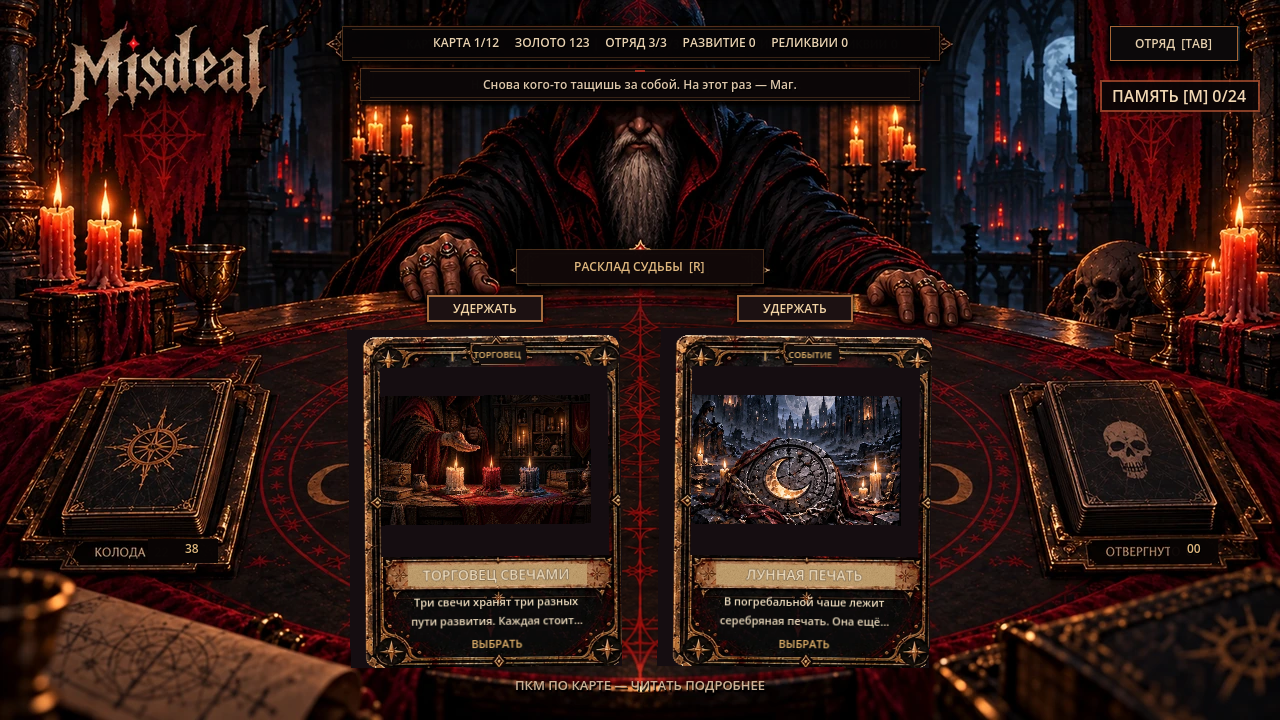
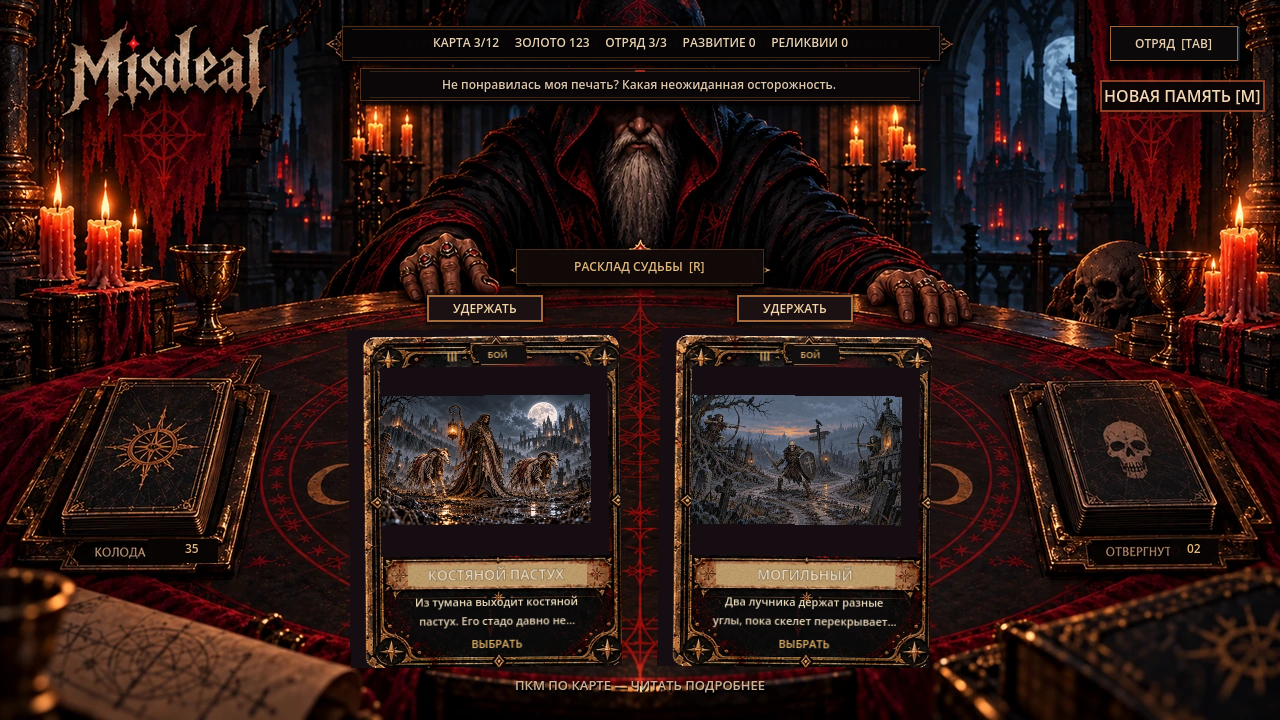
Verify persisted event history through real Save and Exit and fresh-process Continue

diff --git a/docs/RUN_SAVE_SYSTEM.md b/docs/RUN_SAVE_SYSTEM.md
@@ -91,6 +91,8 @@ Separate persistent memory profile now retains a random run token and monotonic 
 
 ## QA and local check
 
-Local Godot4.7.2 full238-test suite passed before final additional regression cases; focused tests cover all fields, three heroes, trio/relics/upgrades/hold/wizard debt and facts, damaged files/backups/terminal status, rewind protection, stable reward phase, cancellation. Final CI counts are in the PR checks. Native `scripts/dev/run_save_capture.gd` renders original main with/without Continue and pause at1280×720; actual Save & Exit then a separate Godot process presses Continue and verifies identical offers/resources/trio/Jack. All fixtures use injected paths; developer profiles are untouched. RELEASE includes existing Intro/ClassSelect, battle/reward/table, Jack, A1V2 and visual/animation routes. Known Windows certificate/user-log permission and route shutdown ObjectDB diagnostics remain documented rather than hidden.
+Local Godot4.7.2 full238-test suite passed before final additional regression cases; focused tests cover all fields, three heroes, trio/relics/upgrades/hold/wizard debt and facts, damaged files/backups/terminal status, rewind protection, stable reward phase, cancellation. Final CI counts are in the PR checks. Native `scripts/dev/run_save_capture.gd` renders original main with/without Continue and pause at1280×720; two actual Moon Seal/Echo Crypt resolutions, then Save & Exit, followed by a separate Godot process pressing Continue and verifies identical offers/resources/trio/Jack. All fixtures use injected paths; developer profiles are untouched. RELEASE includes existing Intro/ClassSelect, battle/reward/table, Jack, A1V2 and visual/animation routes. Known Windows certificate/user-log permission and route shutdown ObjectDB diagnostics remain documented rather than hidden.
 
 F5 → New Game → confirm protagonist → play → ESC → Save & Exit → restart → Continue. Check same offers, gold/party and held card; inspect M after new run. Mid-battle closing returns to the last safe point. Win/defeat disables Continue only after terminal write succeeds. Before updating a separate checkout use `git status -sb`, then `git pull --ff-only` on clean main; preserve local Godot changes.
+
+Delivery: [PR94](https://github.com/zampolit73/Misdeal/pull/94); [current-head RELEASE checks](https://github.com/zampolit73/Misdeal/pull/94/checks). Final checks are authoritative for merge.
